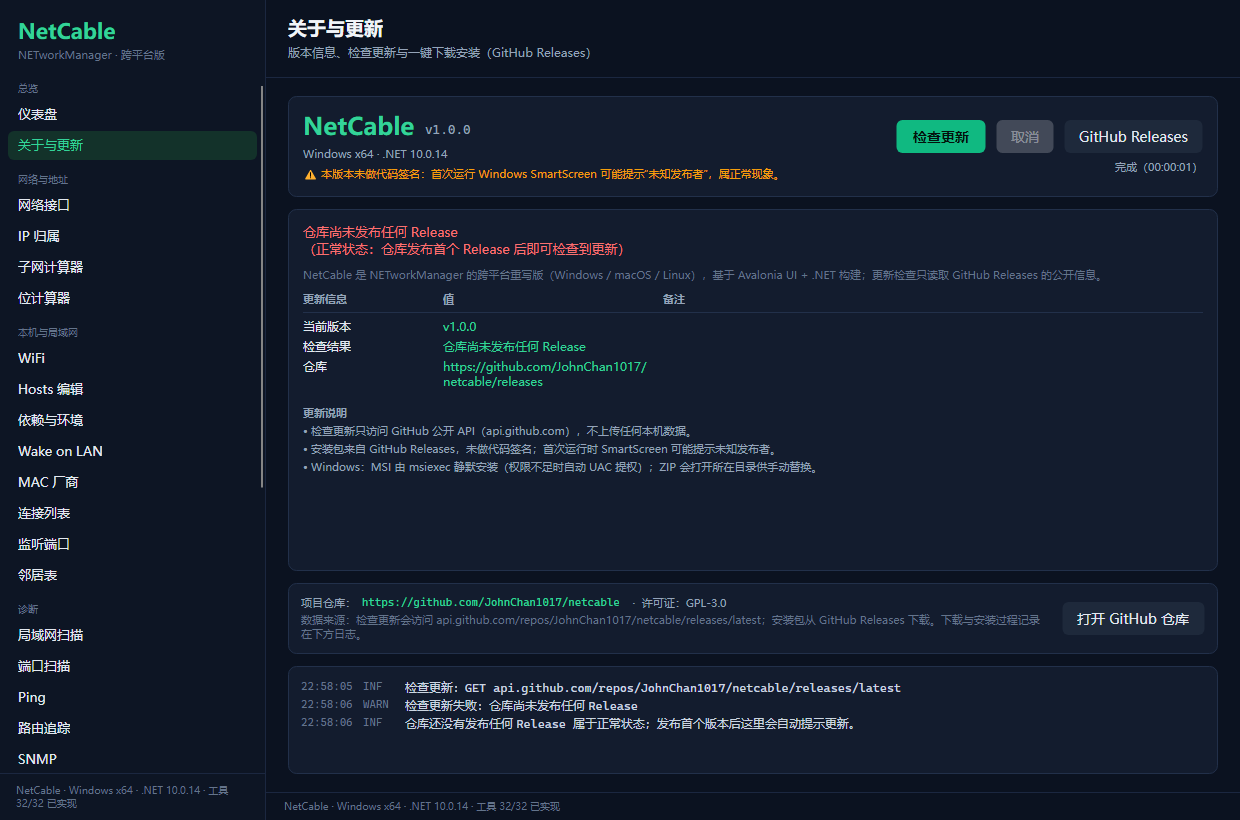
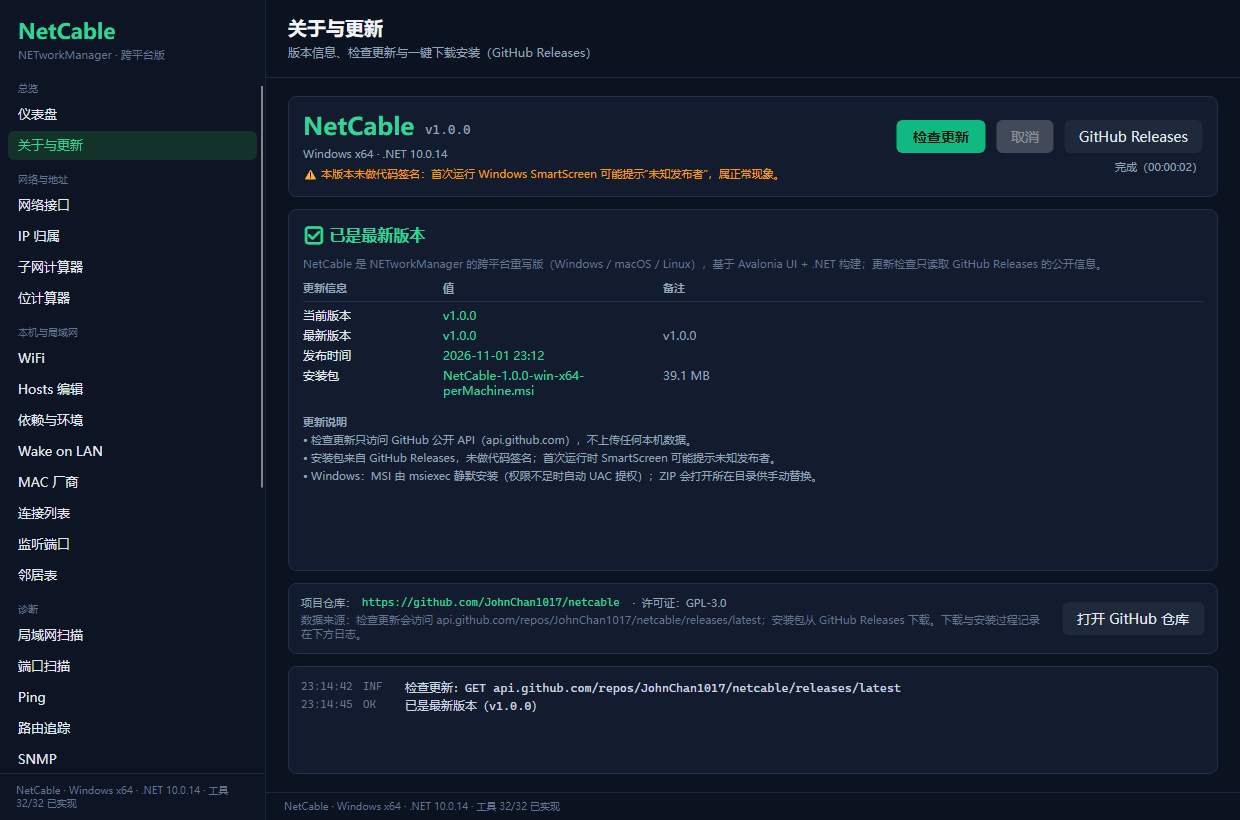
ci: 接入 SignPath 代码签名步骤（默认禁用，配置变量后生效）
- 上传未签名产物 -> 提交签名请求 -> 用签名产物覆盖并重打 portable zip -> 校验签名
- 由 vars.SIGNPATH_PROJECT_SLUG 控制，留空则完全跳过，不影响现有 CI
- docs/signpath-application.md 更新为实际接入步骤与所需 Secret/Variable 清单

Changed region(s): [[0.2452, 0.2744, 0.8887, 0.6098], [0.2452, 0.8537, 0.6742, 0.9146]]

diff --git a/docs/signpath-application.md b/docs/signpath-application.md
@@ -60,25 +60,31 @@
 
 ## 六、申请后的接入步骤（拿到证书后）
 
-1. 在 SignPath 后台创建 project / signing policy（如 `release-signing`）
-2. 在 GitHub 仓库添加 Secret：`SIGNPATH_API_TOKEN`（SignPath 生成）
-3. 在 `.github/workflows/build.yml` 的 Windows job 末尾加：
+> ✅ **CI 侧已接好**：`.github/workflows/build.yml` 里已经内置 SignPath 签名步骤，
+> 默认全部跳过；只要填上下面 4 个配置项就自动生效，**不需要再改 workflow 文件**。
 
-```yaml
-      - name: Sign artifacts
-        uses: signpath/github-action-submit-signing-request@v1
-        if: startsWith(github.ref, 'refs/tags/v')
-        with:
-          api-token: ${{ secrets.SIGNPATH_API_TOKEN }}
-          organization-id: '<SignPath organization id>'
-          project-slug: 'netcable'
-          signing-policy-slug: 'release-signing'
-          github-artifact-id: '<uploaded artifact id>'
-          wait-for-completion: true
-          output-artifact-directory: 'signed/'
-```
+1. 在 SignPath 后台创建 project（slug 建议 `netcable`）与 signing policy（建议 `release-signing`），
+   签名策略里勾选：`NetCable.exe`（PE）、`*.msi`（MSI 需允许"sign MSI"或对内部文件签名）。
+2. 在 GitHub 仓库 **Settings → Secrets and variables → Actions** 配置：
 
-4. 把 Release 上传步骤改为上传 `signed/` 目录中的产物。
+| 类型 | 名称 | 值 |
+| --- | --- | --- |
+| Secret | `SIGNPATH_API_TOKEN` | SignPath 生成的 API Token |
+| Variable | `SIGNPATH_ORGANIZATION_ID` | SignPath 组织 ID |
+| Variable | `SIGNPATH_PROJECT_SLUG` | `netcable` |
+| Variable | `SIGNPATH_SIGNING_POLICY_SLUG` | `release-signing` |
+
+3. 填好后打 tag（`git tag v1.0.1 && git push origin v1.0.1`）验证：
+   - CI 会先把未签名产物（`out/*.msi` + `out/win-x64/NetCable.exe`）上传为 artifact `unsigned-windows`
+   - `Submit signing request to SignPath` 等待签名完成（`wait-for-completion: true`）
+   - `Replace with signed binaries and repack` 用签名后的 exe/MSI 覆盖并重新打 portable zip
+   - `Verify signatures` 用 `Get-AuthenticodeSignature` 校验，**状态必须是 `Valid`**，否则 CI 失败
+   - Release 上传 `out/*.msi` 与 `out/*.zip` → 即签名后的产物
+
+4. 若 `SIGNPATH_PROJECT_SLUG` 留空，签名步骤自动跳过，CI 与现在行为完全一致。
+
+> 注意：`signpath/github-action-submit-signing-request@v1` 的版本号以 SignPath 官方文档为准，
+> 如官方发布新主版本，可把 `@v1` 改为对应 tag。
 
 ## 七、附：当前版本信息（填写申请表时可用）
 
